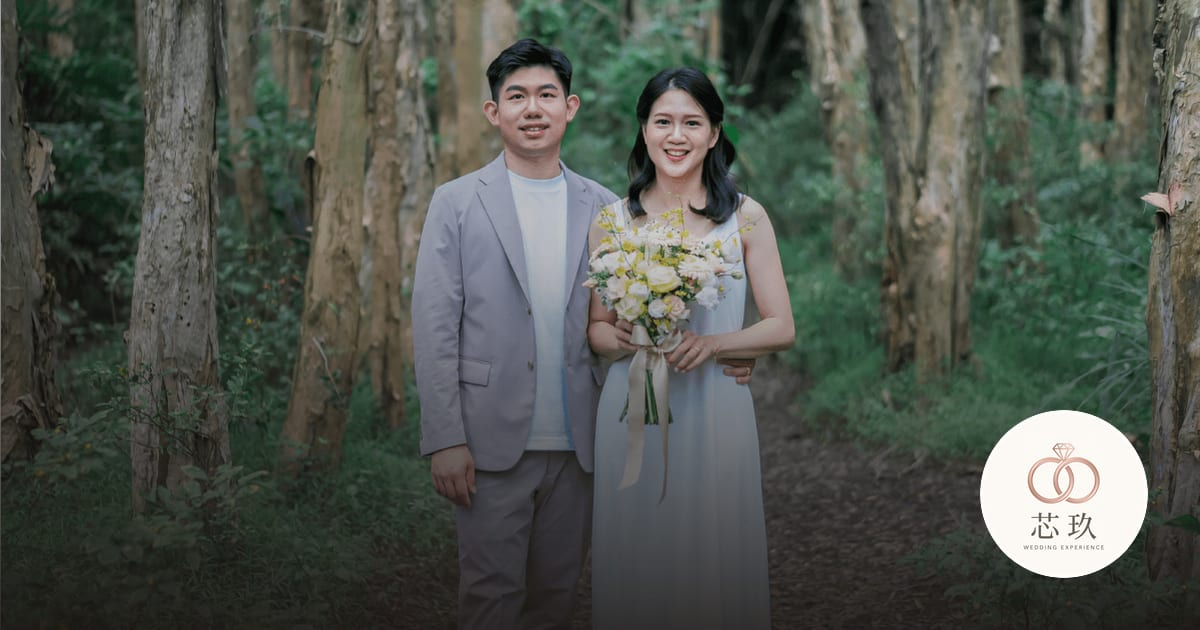
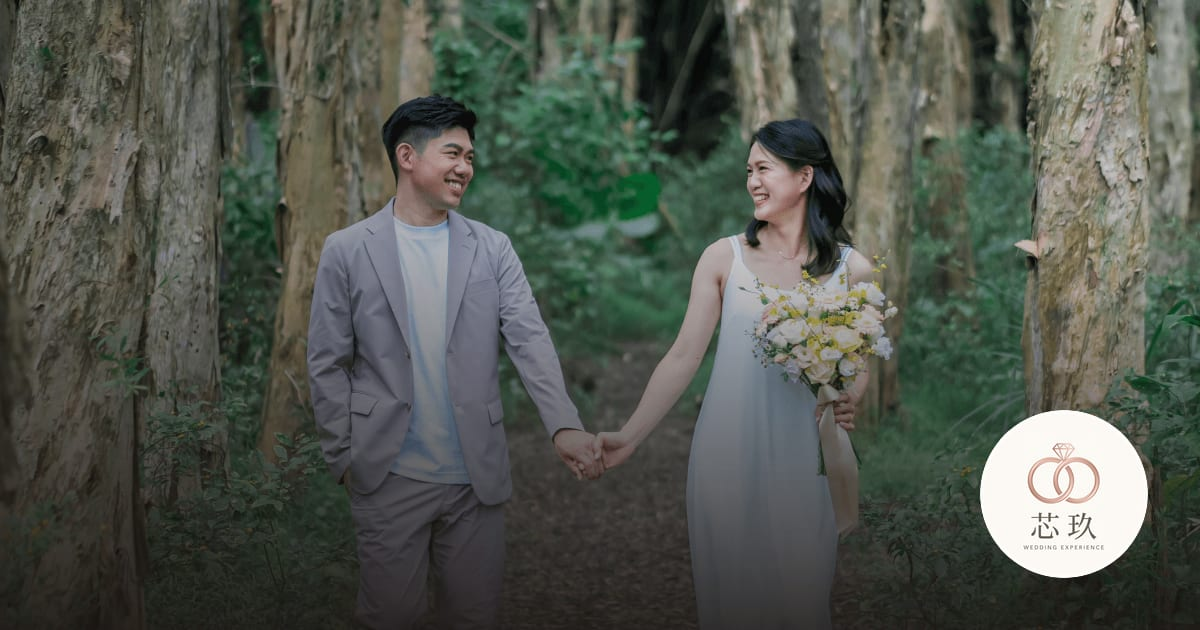
chore(og): 套用新人上傳的 share.png，重產縮圖與素材清單
新人把 share.png 放進素材資料夾了，但沒重跑指令，所以線上的縮圖仍是
用 cover.jpg 合成的。這裡重跑 build-og 與 sync-assets：

- og.jpg 改用 share.png 合成（build-og 的來源優先序 share → cover）
- manifest.json 補上 share 欄位
- 連帶更新兩份 og:image 的版本雜湊

⚠ manifest.json 另有一處不是這次改的：cards 的 rarity 從 N 變成 R。
這是既有的落差 —— cards/meta.json 寫的一直是 R，但 manifest 停在 N，
表示先前改了 meta 沒重跑 sync-assets，而網頁讀的是 manifest。
這次重跑順手對齊了。N 與 R 都是一般卡（沒有光膜也沒有煙火），
只有卡面顯示的星級字樣會變。

註：這個容器沒有 Admin 憑證，所以產出的 og.jpg 上還沒有新人姓名。
本機帶 GOOGLE_APPLICATION_CREDENTIALS 重跑一次 npm run build-og 才會有。

Claude-Session: https://claude.ai/code/session_01QF81oAFrQPFEJhALoTQAD6

diff --git a/public/w/ginny-one-20260919/index.html b/public/w/ginny-one-20260919/index.html
@@ -21,11 +21,11 @@
 <meta property="og:description" content="誠摯邀請您一起見證我們的大喜之日・婚禮資訊、當日流程與互動小遊戲都在這裡">
 <meta property="og:type" content="website">
 <meta property="og:url" content="https://minato-studio-wedding.web.app/w/ginny-one-20260919/">
-<meta property="og:image" content="https://minato-studio-wedding.web.app/assets/ginny-one-20260919/og.jpg?v=bf2b4f18">
+<meta property="og:image" content="https://minato-studio-wedding.web.app/assets/ginny-one-20260919/og.jpg?v=7dc0916f">
 <meta property="og:image:width" content="1200">
 <meta property="og:image:height" content="630">
 <meta name="twitter:card" content="summary_large_image">
-<meta name="twitter:image" content="https://minato-studio-wedding.web.app/assets/ginny-one-20260919/og.jpg?v=bf2b4f18">
+<meta name="twitter:image" content="https://minato-studio-wedding.web.app/assets/ginny-one-20260919/og.jpg?v=7dc0916f">
 <link rel="icon" href="/favicon.png" type="image/png">
 <!-- iOS「加到主畫面」用的圖示。同一張 512×512，iOS 會自己縮 -->
 <link rel="apple-touch-icon" href="/favicon.png">

diff --git a/public/w/ginny-one-20260919/invitation.html b/public/w/ginny-one-20260919/invitation.html
@@ -14,11 +14,11 @@
 <meta property="og:description" content="誠摯邀請您一起見證我們的大喜之日・時間、地點與出席回覆都在這裡">
 <meta property="og:type" content="website">
 <meta property="og:url" content="https://minato-studio-wedding.web.app/w/ginny-one-20260919/invitation">
-<meta property="og:image" content="https://minato-studio-wedding.web.app/assets/ginny-one-20260919/og.jpg?v=bf2b4f18">
+<meta property="og:image" content="https://minato-studio-wedding.web.app/assets/ginny-one-20260919/og.jpg?v=7dc0916f">
 <meta property="og:image:width" content="1200">
 <meta property="og:image:height" content="630">
 <meta name="twitter:card" content="summary_large_image">
-<meta name="twitter:image" content="https://minato-studio-wedding.web.app/assets/ginny-one-20260919/og.jpg?v=bf2b4f18">
+<meta name="twitter:image" content="https://minato-studio-wedding.web.app/assets/ginny-one-20260919/og.jpg?v=7dc0916f">
 <link rel="icon" href="/favicon.png" type="image/png">
 <!-- iOS「加到主畫面」用的圖示。同一張 512×512，iOS 會自己縮 -->
 <link rel="apple-touch-icon" href="/favicon.png">
